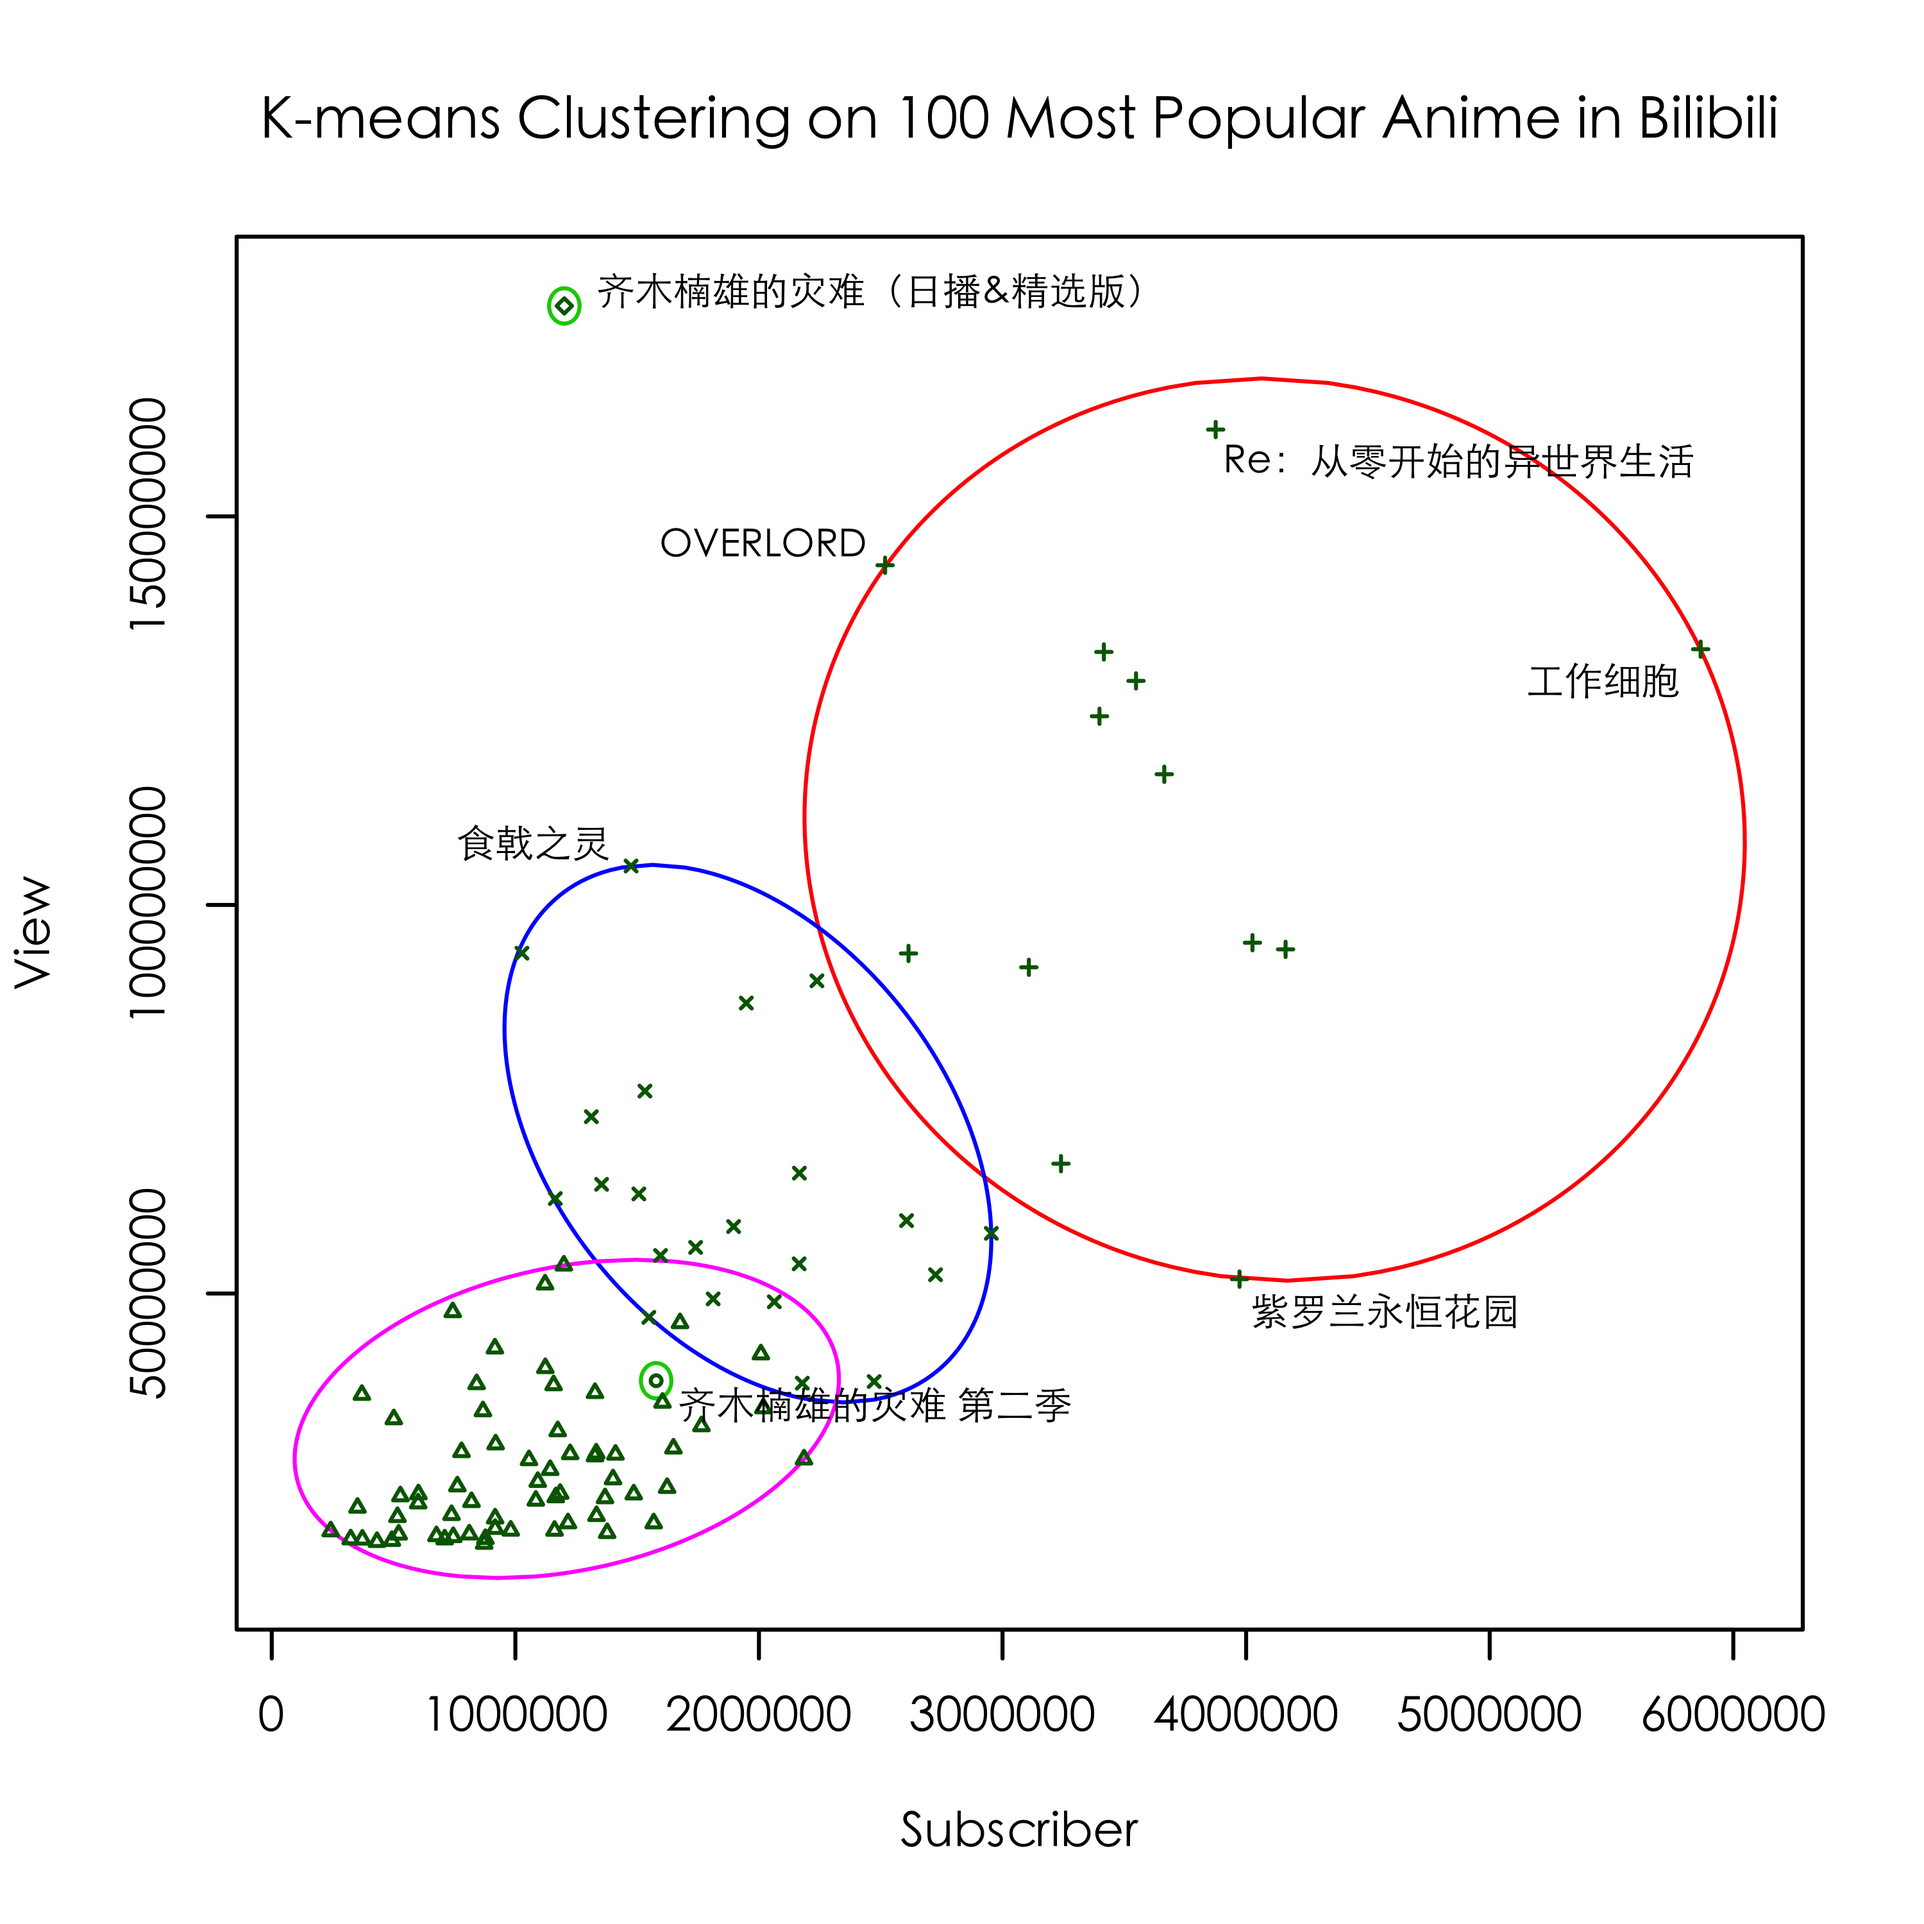
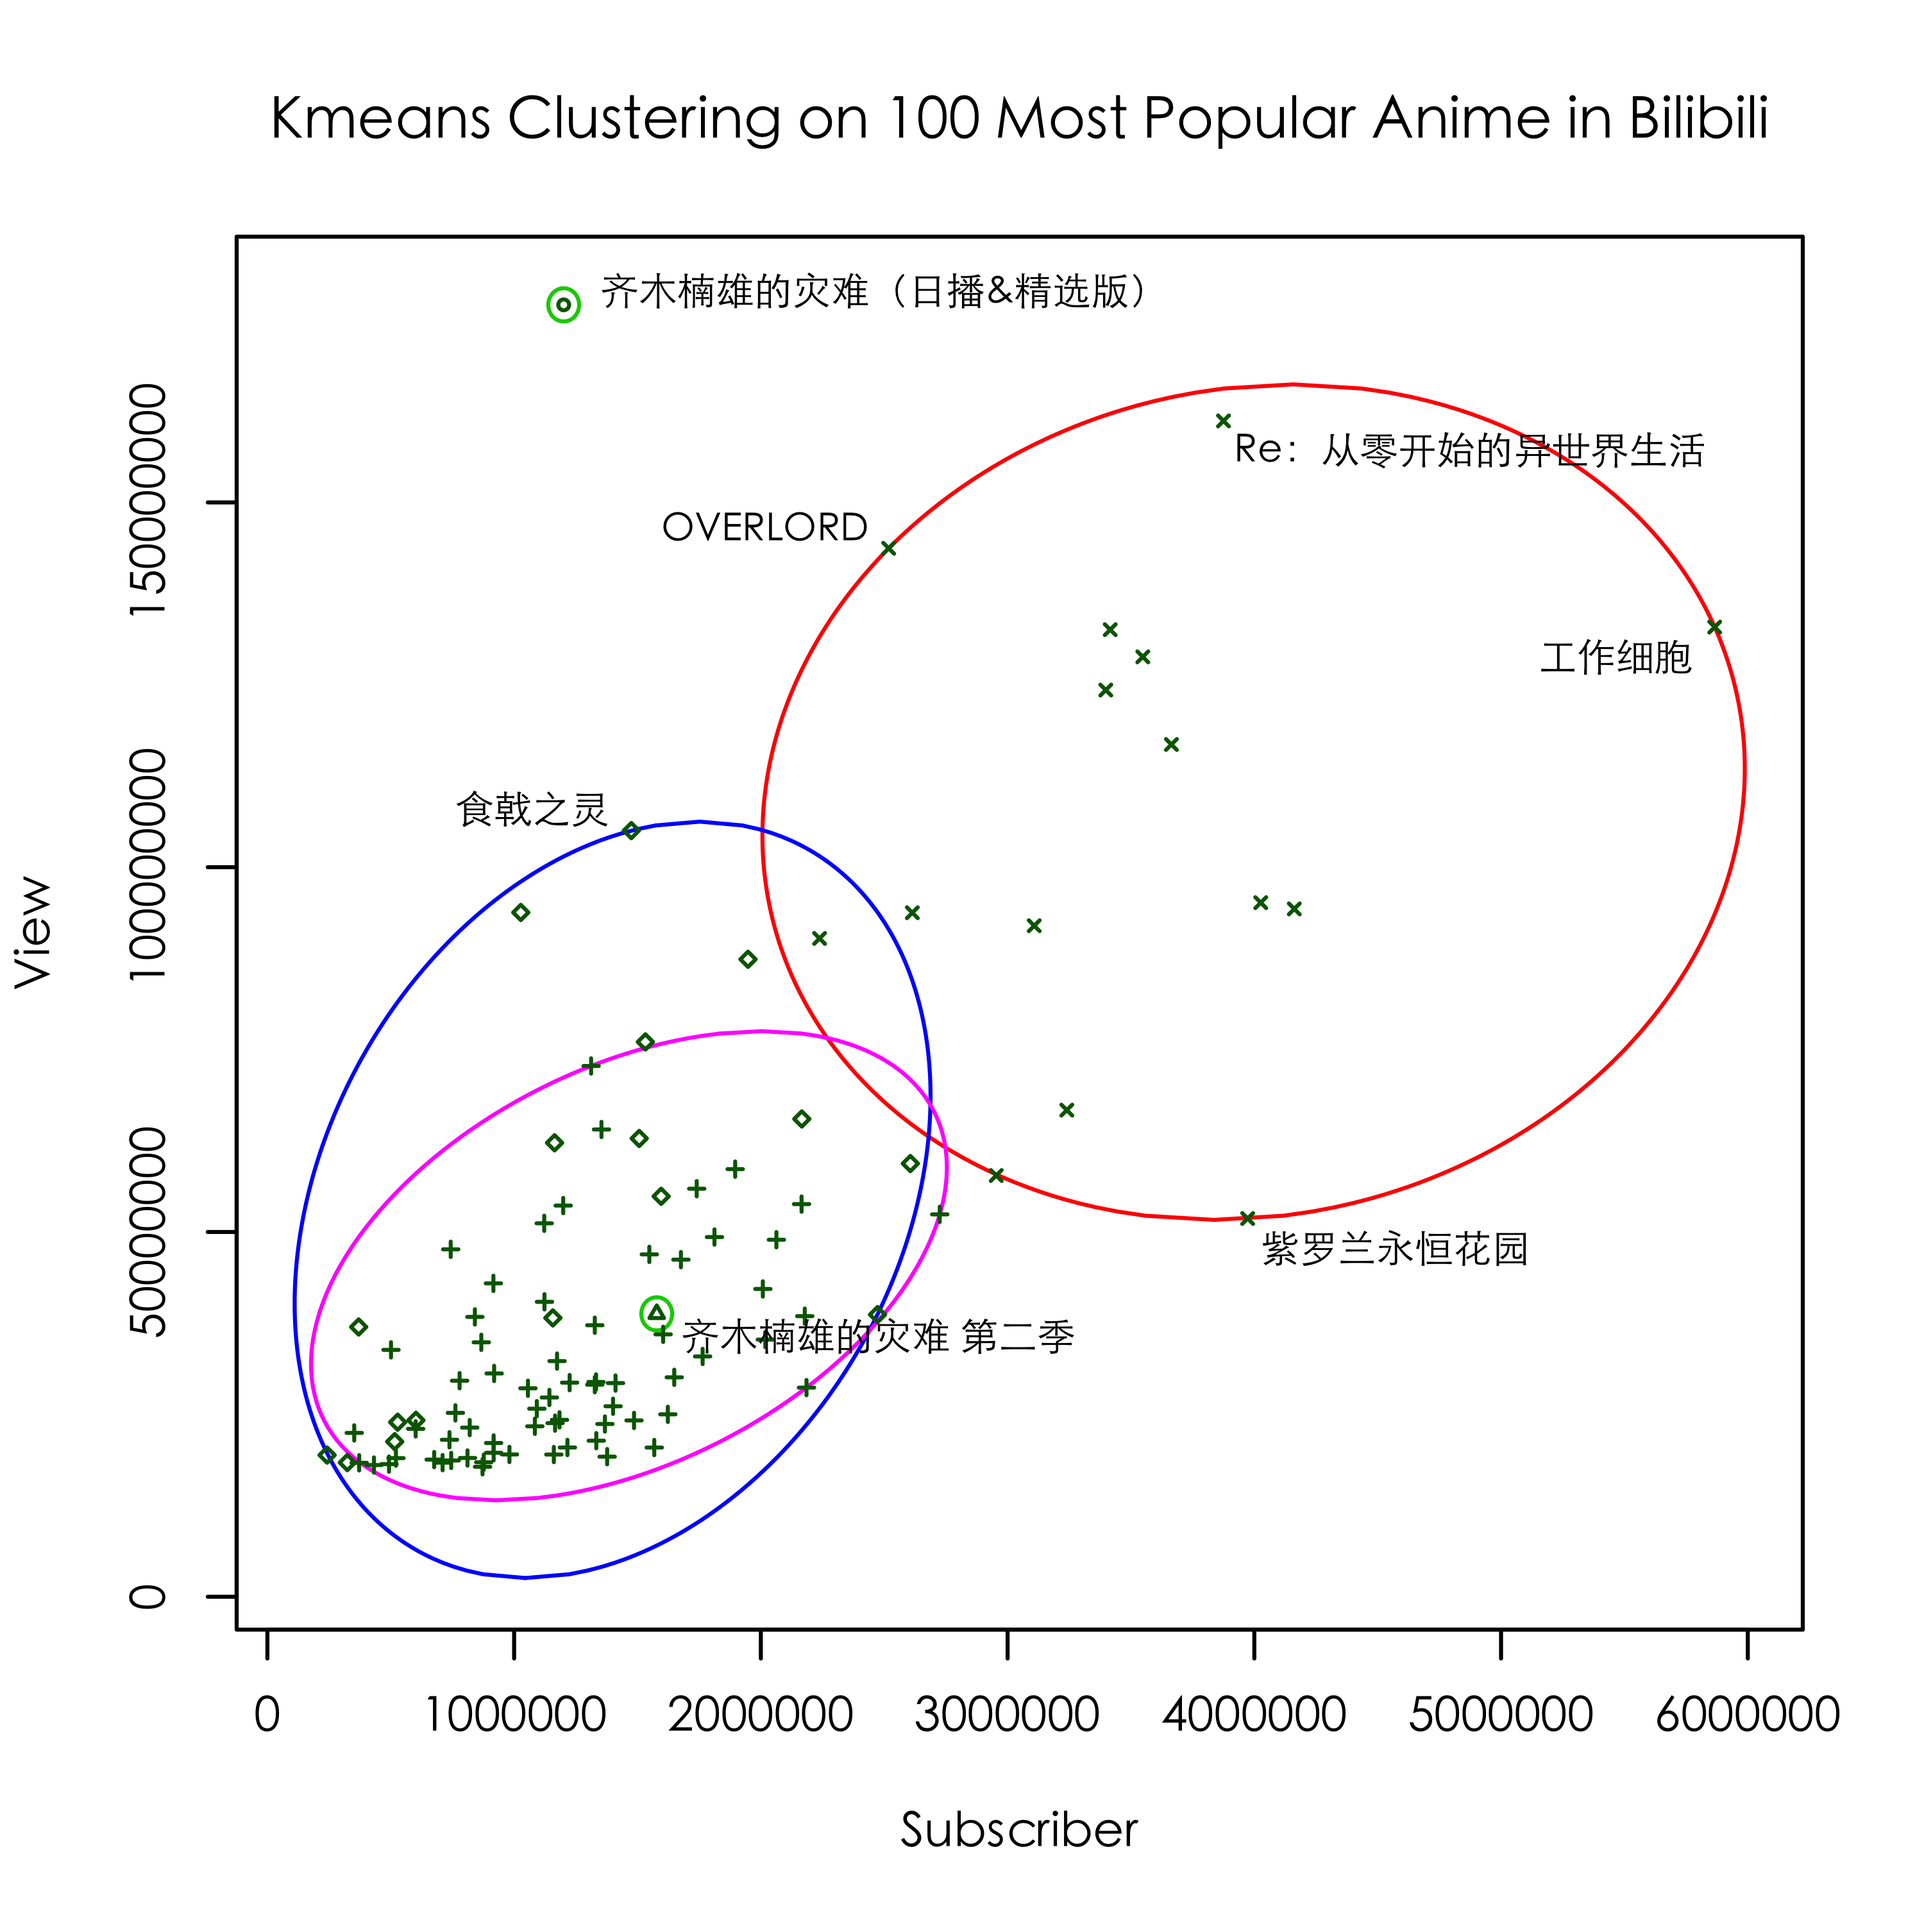
Silhouette Plot

diff --git a/report.md b/report.md
@@ -10,9 +10,9 @@ An era of rapid economic growth in China with the boom of internet gave rise to 
 
 ### Data Collection
 
-`bilibiliCrawler -b[d]`
+`./bilibiliCrawler -b[d]`
 
-Using the above command, over 2000 anime data will be collect from Bilibili. 
+Using the above command, over 2000 anime data will be collect from Bilibili. For detail codes, see `crawler/online.go`
 
 In this section, only the following field will be used.
 
@@ -29,6 +29,8 @@ In this section, only the following field will be used.
 The view of first episode of an anime may just depends on the publicity and how popular of this intellectual property. So it may just demonstrate people's  expectation and be irrelevant to the actual performance of it. However, the view of third episode may largely relative with the actual quality of this anime. In this sense, by comparing the difference between `view1` and `view3`, I can find whether people is satisfied with it. The view of the third last episode may related with the equality of the entirely anime, and the view of the last episode may related with the quality of ending of this anime. I choose this four field in order to give more dimension information, so that my analysis will be more comprehensive and accurate.
 
 ### Data Preprocessing
+
+In the rest of this section, all relative codes are stored in file `visual/bangumiClustering.R`.
 
 I chose a subset of all anime to conduct this analysis, namely, 100 most popular anime were used as dataset after removing illegal data. Here I decided to use the number of times that the anime is played as criteria to determine which one is more popular, since people is generally more familiar with those anime, hence, the result will be more intuitive. 
 
@@ -68,7 +70,7 @@ So after preprocessing, data should be like this.
 Hierarchical cluster analysis using a set of dissimilarities for the n objects being clustered. In this case, a dissimilarity matrix based on euclidean distance is computed. Initially, each anime is assigned to its own cluster and then the algorithm proceeds iteratively, at each stage joining the two most similar clusters, continuing until there is just a single cluster. At each stage distances between clusters are recomputed by the Lance–Williams dissimilarity update formula according to the particular clustering method being used.
 
 ~~~R
-bangumi.dist <- dist(bangumi.data[1:50,])
+bangumi.dist <- dist(bangumi.data[1:number.hc.datasize,])
 bangumi.hc <- hclust(bangumi.dist)
 ~~~
 
@@ -76,10 +78,43 @@ bangumi.hc <- hclust(bangumi.dist)
 
 The above figure demonstrate the clustering result on 50 most popular anime. Here I choose a dataset of size 50 instead of 100 for better clearity.
 
-Each colorful rectangle box in the figure identify a cluster after I divided them into 5 clusters based on their height in this hierarchical tree. One of the most  unique characteristics of this algorithm that differentiate it from other clustering algorithm is that there exists a bunch of clusters that contain only one data in the result. This behavior could be advantage or disadvantage depends on the structure of your input data. In your input dataset, if there're some data that significant different from others, namely outliers, the hierarchical clustering can easily identify them and it will not affect the clustering result of other data. Otherwise this behavior will cause some redundant clusters and make result not clear and convincing enough.
+Each colorful rectangle box in the figure identify a cluster after I divided them into 7 clusters based on their height in this hierarchical tree. One of the most  unique characteristics of this algorithm that differentiate it from other clustering algorithm is that there exists a bunch of clusters that contain only one data in the result. This behavior could be advantage or disadvantage depends on the structure of your input data. In your input dataset, if there're some data that significant different from others, namely outliers, the hierarchical clustering can easily identify them and it will not affect the clustering result of other data. Otherwise this behavior will cause some redundant clusters and make result not clear and convincing enough.
 
 ### Kmeans Clustering
-	
+
+This algorithm first randomly choose k points as initial k center points. Then it runs iteratively. Within each iteration, it first assign each non-center points to a cluster depends on which center point it closes to. In this process, distance formula, usually is euclidean distance, is used to evaluate closeness. Then it shifts the center point of each cluster to the average point of all points belong to it. After center points no longer changes, the result converges and it stop iterating.
+
+~~~R
+bangumi.kmeans <- kmeans(bangumi.data[1:number.kmeans.datasize,], 
+						number.kmeans.cluster, nstart=50)
+~~~
+
+![](visual/assets/kmeans_clustering.png)
+
+Each cluster is represented by the ellipse with smallest area containing all its points. (This is a special case of the minimum volume ellipsoid.) The ellipses are colored with respect to their density, which is the number of points in the cluster divided by the area of the ellipse. With increasing density, the colors are light blue, light green, red and purple.
+
+As showed in the figure above, data was divided into 5 cluster. However, two of which contains only a single data point. This is the intrinsic defect of this algorithm. Since the shifting of center points are calculated by the average distance, it's easy to be influenced by some extreme value. Such point can distort the distribution of data significantly. So the best solution for this algorithm is to divided this extreme value point into a cluster alone. Also the choice of initial center points can affect the result greatly, rendering this algorithm somehow unstable.
+
+### PAM Clustering
+
+The pam-algorithm is based on the search for k representative objects or medoids among the observations of the dataset. These observations should represent the structure of the data. After finding a set of k medoids, k clusters are constructed by assigning each observation to the nearest medoid. The goal is to find k representative objects which minimize the sum of the dissimilarities of the observations to their closest representative object. 
+By default, when medoids are not specified, the algorithm first looks for a good initial set of medoids (this is called the build phase). Then it finds a local minimum for the objective function, that is, a solution such that there is no single switch of an observation with a medoid that will decrease the objective (this is called the swap phase). The detail procedure can be summarized as follows:
+
+1. Initialize: select k of the n data points as the medoids
+2. Associate each data point to the closest medoid.
+3. While the cost of the configuration decreases:
+	1. For each medoid m, for each non-medoid data point o:
+		1. Swap m and o, associate each data point to the closest medoid, recompute the cost (sum of distances of points to their medoid)
+		2. If the total cost of the configuration increased in the previous step, undo the swap
+
+Compared to the k-means approach, this algorithm is more robust because in the swap phase, the swapping process guarantee the center point of each cluster is an actual data point, which will alleviate negative effects caused by extreme points.
+
+![](visual/assets/pam_clustering.png)
+
+As shown in the figure above, `齐木楠雄的灾难（日播&精选版）` and `齐木楠雄的灾难 第二季` no longer belongs to a cluster along, rendering the result more clearly demonstrate the difference between clusters when the total number of cluster is fixed.
+
+## Compare Kmeans and PAM with Respect to Silhouette Plot
+
 # Reference
 
 1. [bilibili上市宣传视频](www.bilibili/video/av21322566)
